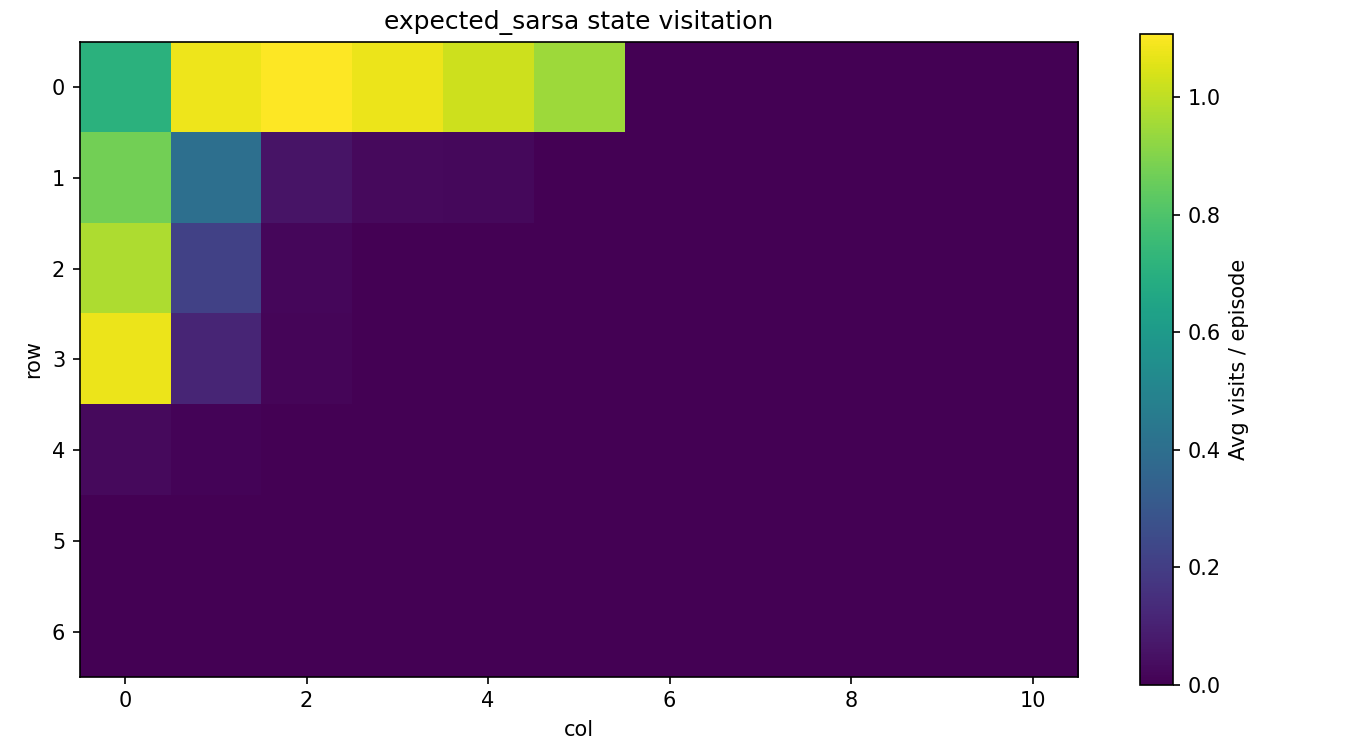
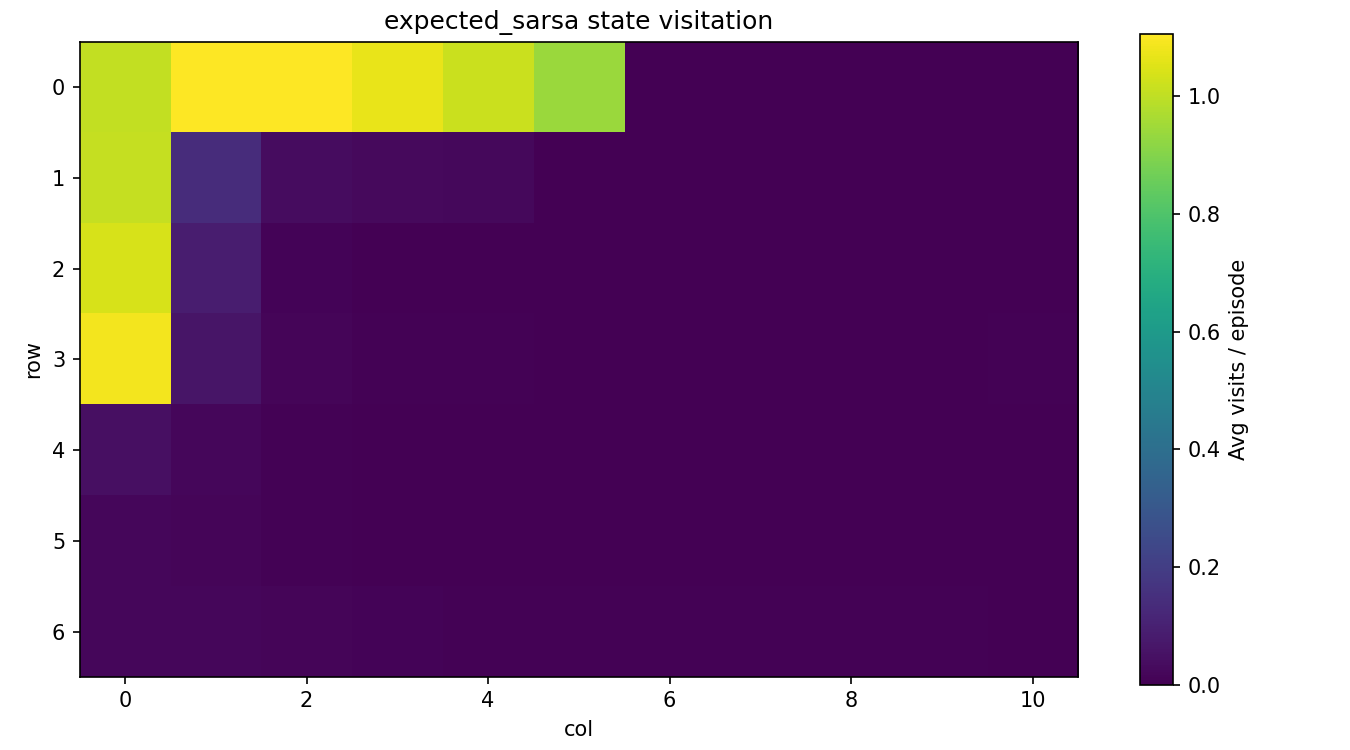
major upgrades

Changed region(s): [[0.0622, 0.0307, 0.2178, 0.4293], [0.8711, 0.5827, 0.9022, 0.6133], [0.8711, 0.276, 0.9022, 0.3067]]

diff --git a/Q1_Bridge_Ferry/plot_q.py b/Q1_Bridge_Ferry/plot_q.py
@@ -14,6 +14,9 @@ ARROW = ["↑", "↓", "←", "→"]
 VMIN, VMAX = -50, 50          # colour clip; chasm-bound actions (~-101) just saturate
 
 
+p_wind = 0.02
+sigma =  5
+
 def valid(r, c):
     return not is_chasm(r, c) and (r, c) not in (FERRY, GOAL)
 
@@ -59,7 +62,7 @@ def heat(ax, grid, title, annotate=True):
 
 all_visits = {}
 for name, fn in ALGOS:
-    env = BridgeAndFerryEnv(p_wind=0.0, sigma=0.0)
+    env = BridgeAndFerryEnv(p_wind=p_wind, sigma=sigma)
     Q, _, visits = fn(env, episodes, seed=seed, q_init=q_init)
     all_visits[name] = visits.reshape(env.n_rows, env.n_cols)
     g, V, arrows = build(env, Q)
@@ -91,7 +94,7 @@ for name, fn in ALGOS:
     fig.colorbar(im, ax=list(axes.flat[:5]), shrink=0.6,
                  label=f"Q (colour clipped to [{VMIN}, {VMAX}])")
     fig.suptitle(f"{name} | q_init={q_init:g} | {episodes} episodes | seed {seed}")
-    fig.savefig(f"qvalues_{name}_init{q_init:g}_{episodes}.png", dpi=150)
+    fig.savefig(f"qvalues_{name}_init{q_init:g}_pwind{p_wind:g}_sigma{sigma:g}_{episodes}.png", dpi=150)
 
 # where did the agent actually go? (explains why values never propagate)
 fig, axes = plt.subplots(1, 3, figsize=(18, 4.5), constrained_layout=True)
@@ -101,5 +104,5 @@ for ax, (name, v) in zip(axes, all_visits.items()):
     mark(ax, color="red")
     fig.colorbar(im, ax=ax, shrink=0.8)
 fig.suptitle(f"State visits during training | q_init={q_init:g} | {episodes} episodes | seed {seed}")
-fig.savefig(f"visits_init{q_init:g}_{episodes}.png", dpi=150)
+fig.savefig(f"visits_init{q_init:g}_pwind{p_wind:g}_sigma{sigma:g}_{episodes}.png")
 plt.show()

diff --git a/Q1_Bridge_Ferry/visualize.py b/Q1_Bridge_Ferry/visualize.py
@@ -3,20 +3,29 @@ import matplotlib.pyplot as plt
 from env import N_ROWS, N_COLS
 
 
-def plot_learning_curves(curves, save_path):
-    plt.figure(figsize=(7, 5))
-    for name, (mean, se) in curves.items():
-        x = np.arange(len(mean))
+def moving_average(x, w):
+    """x: (n_seeds, n_episodes) -> (n_seeds, n_episodes - w + 1), mean over each window of w episodes."""
+    c = np.cumsum(np.insert(x, 0, 0.0, axis=1), axis=1)
+    return (c[:, w:] - c[:, :-w]) / w
+
+
+def plot_learning_curves(online_by_algo, save_path, window=1000):
+    """online_by_algo: {algo_name: array of shape (n_seeds, n_episodes)}"""
+    plt.figure(figsize=(8, 5))
+    for name, online_all in online_by_algo.items():
+        sm = moving_average(online_all, window)              # smooth each seed first
+        mean = sm.mean(axis=0)
+        se = sm.std(axis=0, ddof=1) / np.sqrt(sm.shape[0])   # SE across seeds
+        x = np.arange(window, online_all.shape[1] + 1)       # episode at the end of each window
         plt.plot(x, mean, label=name)
-        plt.fill_between(x, mean - se, mean + se, alpha=0.2)
+        plt.fill_between(x, mean - se, mean + se, alpha=0.25)
     plt.xlabel("Training episode")
-    plt.ylabel("Online return")
+    plt.ylabel(f"Online return ({window}-episode moving average)")
     plt.title("Online (during-training) return")
     plt.legend()
     plt.tight_layout()
     plt.savefig(save_path, dpi=150)
     plt.close()
-
 
 def plot_greedy_bar(greedy_means, greedy_sems, save_path):
     names = list(greedy_means.keys())

diff --git a/Q1_Bridge_Ferry/main.py b/Q1_Bridge_Ferry/main.py
@@ -7,7 +7,7 @@ from analysis import solve_p_star, run_pwind_sweep, run_sigma_sweep
 from visualize import (plot_learning_curves, plot_greedy_bar, plot_heatmap,
                         plot_pwind_sweep, plot_sigma_return, plot_sigma_policy)
 
-N_TRAIN_EPISODES = 100000    
+N_TRAIN_EPISODES = 50000    
 SWEEP_TRAIN_EPISODES = 10000   
 N_SEEDS = 10
 EPSILON, ALPHA, GAMMA, MAX_STEPS = 0.1, 0.1, 1.0, 500
@@ -36,9 +36,7 @@ def stage_iii():
             greedy_all.append(mean_ret)
             non_term_total += non_term
 
-        mean_curve = online_all.mean(axis=0)
-        se_curve = online_all.std(axis=0, ddof=1) / np.sqrt(N_SEEDS)
-        online_curves[algo] = (mean_curve, se_curve)
+        online_curves[algo] = online_all      # shape (N_SEEDS, N_TRAIN_EPISODES)
 
         greedy_all = np.array(greedy_all)
         n_valid = int(np.sum(~np.isnan(greedy_all)))

diff --git a/Q1_Bridge_Ferry/agents.py b/Q1_Bridge_Ferry/agents.py
@@ -1,6 +1,6 @@
 import numpy as np
 
-Q_INIT = 0
+Q_INIT = 49
 
 
 def epsilon_greedy(Q, s, epsilon, rng):
